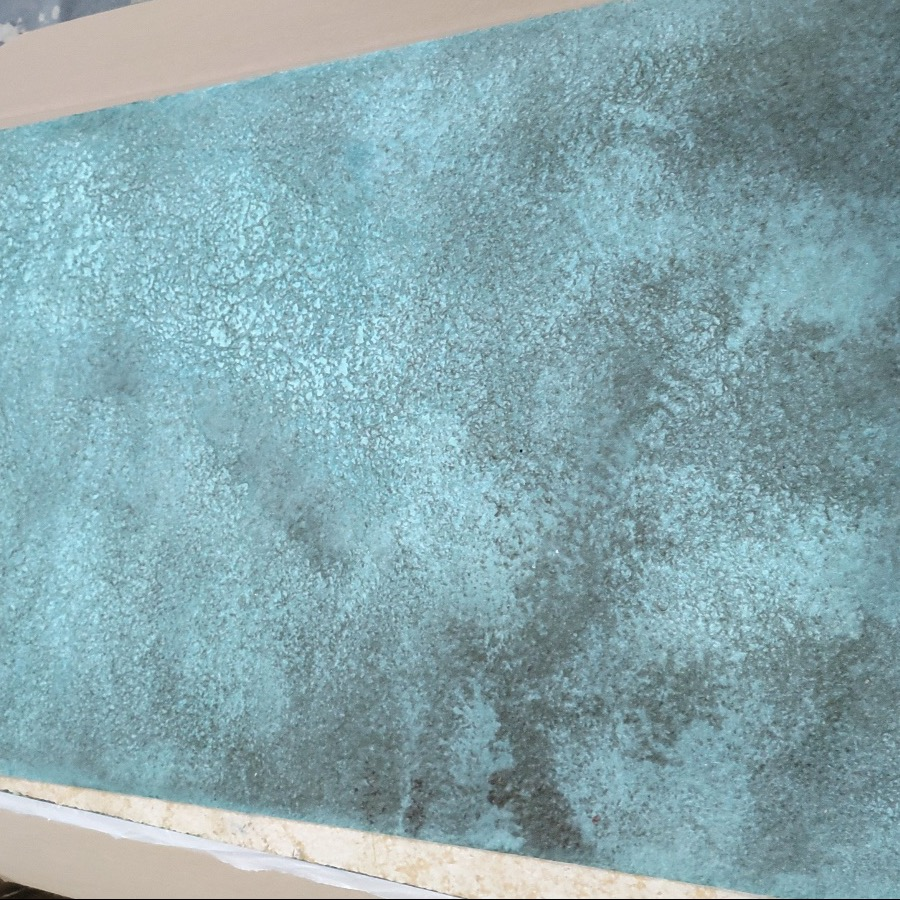
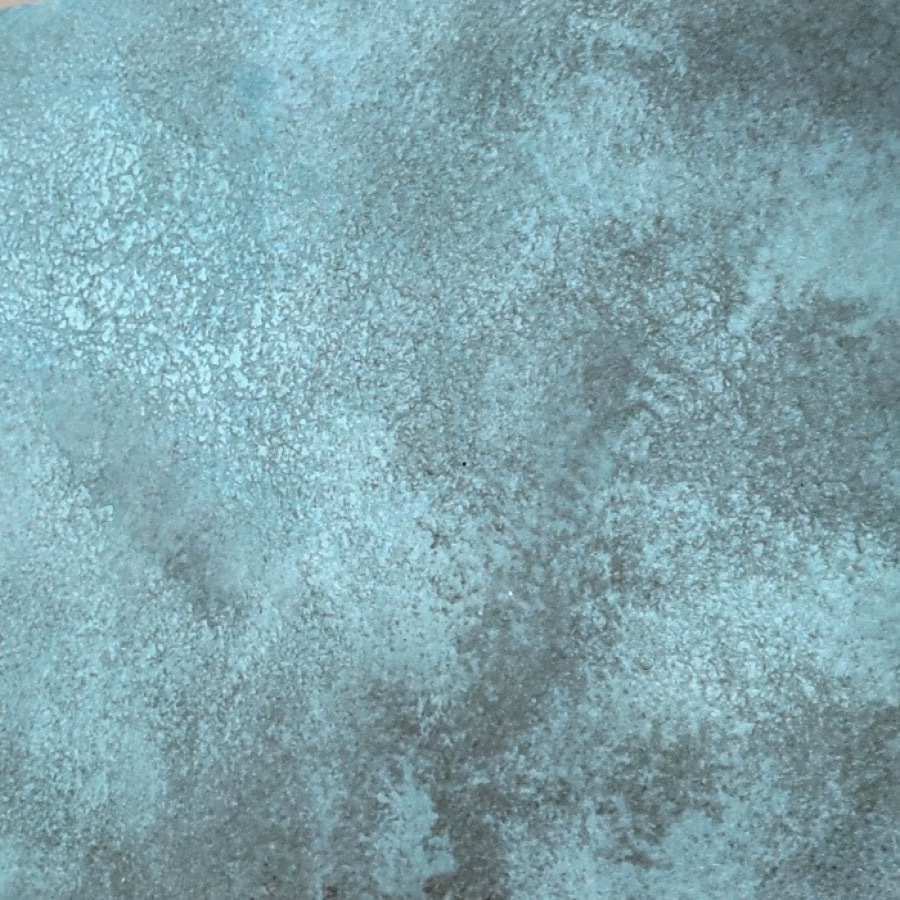
Batch5 patch: lock approved 7014/4112 library images and reconcile batch status

diff --git a/docs/production-todo.md b/docs/production-todo.md
@@ -1,5 +1,38 @@
 # Production Todo / Commit Log
 
+## 2026-04-19 Batch Reconciliation (Gemini follow-through)
+
+- Batch 1: Completed and committed.
+  - Commit: `826f83d`
+  - Scope: launch blockers + medium cleanup.
+
+- Batch 2: Completed and committed.
+  - Commit: `679f3d3`
+  - Scope: contact endpoint flow + `flooring.html` route migration.
+
+- Batch 3: Completed and committed.
+  - Commit: `4945320`
+  - Scope: homepage A/B sunset (single live variant only).
+
+- Batch 4: Completed and committed.
+  - Commit: `ae1be8b`
+  - Scope: brand-safe copy + contact funnel slimming + mobile tap-target polish.
+
+- Batch 5: Completed and committed.
+  - Commit: `e5ad822`
+  - Scope: approved pattern swaps + freeze documentation.
+
+- Batch 5 patch (library correctness lock):
+  - Status: Completed locally (to be included in next commit).
+  - Scope:
+    - `7014` locked to approved `B` source in image library.
+    - `4112` locked to approved `A` source in image library.
+    - `docs/catalog-stone-pattern-freeze-v1.md` updated to final accepted decisions.
+
+- Result:
+  - All planned batches are functionally closed.
+  - Remaining work is optional post-batch optimization / independent external QA reruns only.
+
 ## 2026-04-18
 
 - `0f05425` — Homepage IA and catalog-to-stone routing polish.

diff --git a/docs/catalog-stone-pattern-freeze-v1.md b/docs/catalog-stone-pattern-freeze-v1.md
@@ -6,8 +6,10 @@ Scope: Final manual selection for 5 known edge cases.
 ## Selection Result
 
 1. `7014` (LumiSlate Copper New)
-- Decision: `none` (no candidate accepted)
-- Action: keep current file mapping unchanged.
+- Decision: `B` candidate accepted
+- Applied file:
+  - `assets/nalexible/stone/lumislate-study/7014_Copper_New/off_scene.jpg`
+  - source replaced from: PPT-derived clean crop (page 43, left card)
 
 2. `1017` (Marble)
 - Decision: `2nd` candidate accepted
@@ -26,8 +28,10 @@ Scope: Final manual selection for 5 known edge cases.
   - source replaced from: `4111.clean2.jpg`
 
 5. `4112` (Copper / Rust)
-- Decision: `none` (no candidate accepted)
-- Action: keep current file mapping unchanged.
+- Decision: `A` candidate accepted
+- Applied file:
+  - `assets/nalexible/stone/rust-patterns/4112.clean.jpg`
+  - source replaced from: PPT-derived clean crop (page 104 card)
 
 ## Current Mapping Confirmation (catalog-stone)
 
@@ -36,4 +40,3 @@ Scope: Final manual selection for 5 known edge cases.
 - `4111` -> `assets/nalexible/stone/rust-patterns/4111.clean.jpg`
 - `4112` -> `assets/nalexible/stone/rust-patterns/4112.clean.jpg`
 - `7014` -> `assets/nalexible/stone/lumislate-study/7014_Copper_New/off_scene.jpg`
-
